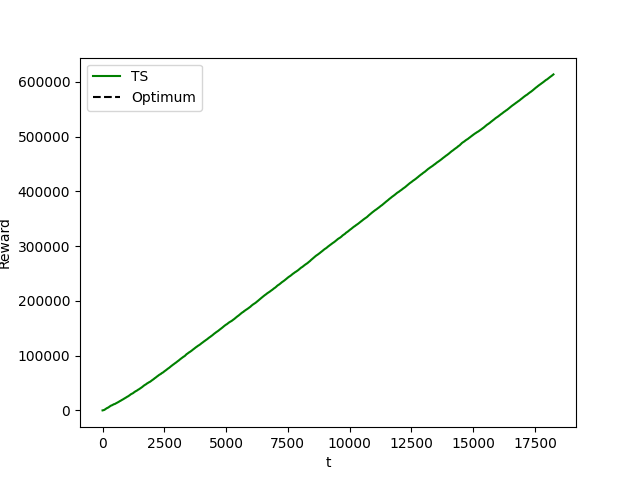
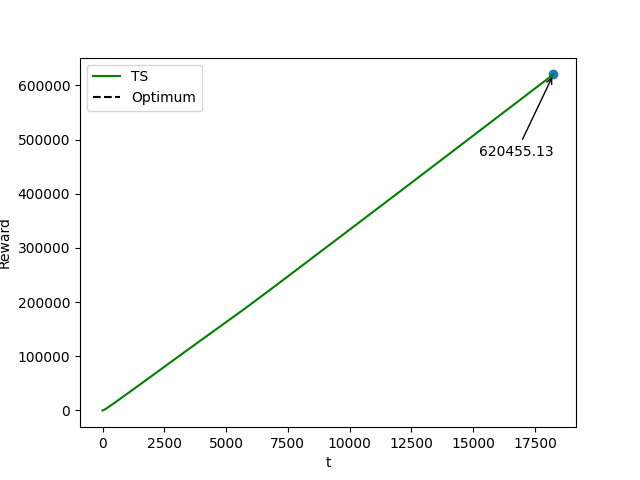
Fixed problems on assignments 4 and 5

diff --git a/src/assignment_5/ts_learner_contexts.py b/src/assignment_5/ts_learner_contexts.py
@@ -9,12 +9,13 @@ class TSLearnerContext(Learner):
 
     # n_arms is the number of arms, probabilities is an array of probabilities related to the probability of each single
     # class. User class is an array of indexes each one for each class
-    def __init__(self, n_arms, probabilities, user_class, rewards_per_arm=None, collected_rewards=None,
+    def __init__(self, n_arms, probabilities, user_class, prices, rewards_per_arm=None, collected_rewards=None,
                  beta_parameters=None):
         super().__init__(n_arms)
         self.__probabilities = probabilities
         self.__n_arms = n_arms
         self.__n_classes = len(user_class)
+        self.__prices = prices
         if all(x is None for x in (rewards_per_arm, collected_rewards, beta_parameters, collected_rewards)):
             self.__rewards_per_arm = [[[] for arm in range(0, n_arms)] for cls in range(0, self.__n_classes)]
             self.__collected_rewards = [[] for cls in range(0, self.__n_classes)]
@@ -31,8 +32,9 @@ class TSLearnerContext(Learner):
     def pull_arm(self):
         scores = np.zeros((self.__n_classes, self.__n_arms))
         for cls in range(0, self.__n_classes):
-            scores[cls] = (np.random.beta(self.__beta_parameters[cls][:, 0], self.__beta_parameters[cls][:, 1]) *
-                           self.__probabilities[cls])
+            scores[cls] = np.multiply(
+                np.random.beta(self.__beta_parameters[cls][:, 0], self.__beta_parameters[cls][:, 1]) *
+                self.__probabilities[cls], self.__prices)
         return np.argmax(scores.sum(axis=0))
 
     # This finds the optimal arm in the case in which we are not considering not all the class as part of a context
@@ -44,9 +46,9 @@ class TSLearnerContext(Learner):
     def get_best_arm_sub_context(self, classes):
         scores = np.zeros((len(classes), self.__n_arms))
         for cls in range(0, len(classes)):
-            scores[cls] = (np.random.beta(self.__beta_parameters[classes[cls]][:, 0],
-                                          self.__beta_parameters[classes[cls]][:, 1]) *
-                           self.__probabilities[classes[cls]])
+            scores[cls] = np.multiply(
+                np.random.beta(self.__beta_parameters[classes[cls]][:, 0], self.__beta_parameters[classes[cls]][:, 1]) *
+                self.__probabilities[classes[cls]], self.__prices)
         index = np.argmax(scores.sum(axis=0))
         return index
 
@@ -56,8 +58,11 @@ class TSLearnerContext(Learner):
         self.t += 1
         self.__update_observations(pulled_arm, reward)
         for cls in range(0, self.__n_classes):
-            self.__beta_parameters[cls][pulled_arm, 0] = self.__beta_parameters[cls][pulled_arm, 0] + reward[cls]
-            self.__beta_parameters[cls][pulled_arm, 1] = self.__beta_parameters[cls][pulled_arm, 1] + 1.0 - reward[cls]
+            value = 0
+            if reward[cls] > 0:
+                value = 1
+            self.__beta_parameters[cls][pulled_arm, 0] = self.__beta_parameters[cls][pulled_arm, 0] + value
+            self.__beta_parameters[cls][pulled_arm, 1] = self.__beta_parameters[cls][pulled_arm, 1] + 1.0 - value
 
     # This method allow to split the learner in two different learners each one for a different context. The learners
     # are given in array form. First classes is an array of classes which compose the first new context and
@@ -73,9 +78,11 @@ class TSLearnerContext(Learner):
         collected_rewards2 = [self.__collected_rewards[i] for i in second_classes]
         beta_parameters1 = [self.__beta_parameters[i] for i in first_classes]
         beta_parameters2 = [self.__beta_parameters[i] for i in second_classes]
-        return [self.__init__(self.__n_arms, probabilities1, user_class1, rewards_per_arm1, collected_rewards1,
+        return [self.__init__(self.__n_arms, probabilities1, user_class1, self.__prices, rewards_per_arm1,
+                              collected_rewards1,
                               beta_parameters1),
-                self.__init__(self.__n_arms, probabilities2, user_class2, rewards_per_arm2, collected_rewards2,
+                self.__init__(self.__n_arms, probabilities2, user_class2, self.__prices, rewards_per_arm2,
+                              collected_rewards2,
                               beta_parameters2)]
 
     # It update the observation like in the basic case but it does so for each class which make up the context contained

diff --git a/src/assignment_5/assignment_5.py b/src/assignment_5/assignment_5.py
@@ -12,9 +12,9 @@ from scipy import interpolate
 from src.utils.constants import img_path
 
 T = 18250
-n_experiment = 20
+n_experiment = 50
 min_price = 0.0
-max_price = 1.0
+max_price = 100.0
 
 user_class = [0, 1, 2]
 user_class_probabilities = [2 / 10, 2 / 5, 2 / 5]
@@ -23,13 +23,13 @@ readFile = '../data/pricing.csv'
 
 # Read environment data from csv file
 data = pd.read_csv(readFile)
-n_arms = len(data.columns)
+n_arms = int(np.ceil(np.power(np.log2(T) * T, 1 / 4)))
 
-x_values = [np.linspace(min_price, max_price, n_arms) for i in range(0, len(user_class))]
 y_values = []
 # The values of the y for each function
 for i in range(0, len(data.index)):
     y_values.append(np.array(data.iloc[i]))
+x_values = [np.linspace(min_price, max_price, len(y_values[u])) for u in user_class]
 
 prices = np.linspace(min_price, max_price, n_arms)
 
@@ -38,7 +38,7 @@ demand_functions = [interpolate.interp1d(x_values[i], y_values[i]) for i in user
 # Create a reward curve for each class
 rewards = [rewards(prices, demand_functions[i], i + 1) for i in range(0, 3)]
 # Create an environment for each class
-environment = [PricingEnv(n_arms=n_arms, conversion_rates=rewards[cls]) for cls in range(0, 3)]
+environment = [PricingEnv(n_arms=n_arms, conversion_rates=demand_functions[cls](prices)) for cls in user_class]
 
 ts_rewards_per_experiment = []
 # opt_per_experiment = []
@@ -46,7 +46,7 @@ ts_rewards_per_experiment = []
 
 for e in tqdm(range(0, n_experiment), desc="Experiment processed", unit="exp"):
     context_generator = ContextsGenerator(user_class=user_class, user_class_probabilities=user_class_probabilities,
-                                          environment=environment, n_arms=n_arms)
+                                          environment=environment, n_arms=n_arms, prices=prices)
     for t in range(0, T):
         # Every 7 days try the new context generation
         if (t + 1) % 350 == 0:
@@ -62,34 +62,37 @@ for e in tqdm(range(0, n_experiment), desc="Experiment processed", unit="exp"):
 
 # TODO Calcolare il regret tramite opt e ts_rewards_per_experiment
 opt = compute_optimum(user_class, user_class_probabilities, rewards)
-print("opt: ", opt, "\n")
-ts_instantaneous_regret = opt - np.mean(
-    ts_rewards_per_experiment, axis=0)
+ts_instantaneous_regret = opt - ts_rewards_per_experiment
 # plot the results
 print("Opt: ")
 np.set_printoptions(precision=3)
 print(compute_optimum(user_class, user_class_probabilities, rewards))
 print("Rewards")
 np.set_printoptions(precision=3)
-print(np.mean(ts_rewards_per_experiment, axis=0) * 100)
+# print(np.mean(ts_rewards_per_experiment, axis=0) * 100)
 print("Regret")
 np.set_printoptions(precision=3)
-print(ts_instantaneous_regret)
+print(np.mean(ts_instantaneous_regret, axis=0))
 plt.figure(0)
-plt.ylabel("Reward")
+plt.ylabel("Cumulative Reward")
 plt.xlabel("t")
-print(np.cumsum(np.mean(ts_rewards_per_experiment, axis=0)))
-plt.plot(np.cumsum(np.mean(ts_rewards_per_experiment, axis=0)), 'g')
+ts_total_rew = np.cumsum(np.mean(ts_rewards_per_experiment, axis=0))
+plt.plot(ts_total_rew, 'g')
 plt.plot(opt, '--k')
-plt.legend(["TS", "Optimum"])
+plt.scatter(len(ts_total_rew), round(np.max(ts_total_rew), 2))
+plt.annotate(round(np.max(ts_total_rew), 2), (len(ts_total_rew), round(np.max(ts_total_rew), 2)),
+             arrowprops=dict(arrowstyle="->",
+                             connectionstyle="arc3"),
+             xytext=(len(ts_total_rew) - 3000, np.max(ts_total_rew) - 150000))
+plt.legend(["TS"])
 img_name = "assignment_5_reward.png"
 plt.savefig(os.path.join(img_path, img_name))
 plt.show()
 
 plt.figure(1)
-plt.ylabel("Regret")
+plt.ylabel("Cumulative Regret")
 plt.xlabel("t")
-plt.plot(np.cumsum(ts_instantaneous_regret), 'g')
+plt.plot(np.cumsum(np.mean(np.array(opt) - ts_rewards_per_experiment, axis=0)), 'g')
 plt.legend(["TS"])
 img_name = "assignment_5_cum_regret.png"
 plt.savefig(os.path.join(img_path, img_name))

diff --git a/src/assignment_5/context_container.py b/src/assignment_5/context_container.py
@@ -14,11 +14,12 @@ class ContextContainer:
     # the context represented in this class is composed. It takes  the probabilities of each class which represents
     # the probabilities of a user belonging to a specific class. It takes a list of environments which are the ones
     # of the single classes. Finally it takes the number of arms
-    def __init__(self, user_class, context_probabilities, environment, n_arms, ts_learner=None):
+    def __init__(self, user_class, context_probabilities, environment, n_arms, prices, ts_learner=None):
         self.__context = user_class
         self.__probabilities = context_probabilities
+        self.__prices = prices
         if ts_learner is None:
-            self.__ts_learner_context = TSLearnerContext(n_arms, self.__probabilities, self.__context)
+            self.__ts_learner_context = TSLearnerContext(n_arms, self.__probabilities, self.__context, self.__prices)
         else:
             self.__ts_learner_context = ts_learner
         self.__environment = environment
@@ -34,9 +35,11 @@ class ContextContainer:
         total_reward = 0
         rewards_this_round = []
         for cls in range(0, len(self.__context)):
-            reward_of_class = self.__environment[cls].round(self.__context_optimal_arm) * self.__probabilities[cls]
+            reward_of_class = self.__environment[cls].round(self.__context_optimal_arm) * self.__prices[
+                self.__context_optimal_arm] * self.__probabilities[cls]
             rewards_this_round.append(reward_of_class / self.__probabilities[cls])
             self.__reward_per_arm[cls][self.__context_optimal_arm].append(reward_of_class / self.__probabilities[cls])
+            # print(self.__reward_per_arm[cls][self.__context_optimal_arm])
             total_reward += reward_of_class
         self.__ts_learner_context.update(self.__context_optimal_arm, rewards_this_round)
         return total_reward
@@ -49,11 +52,11 @@ class ContextContainer:
         if len(self.__context) == 1:
             raise
 
-        # If we have no enough rewards (data in this case) for some arm in some class, we can't compute the hoeffding bound
-        for i in range(0, self.__n_arms):
-            for cls in self.__context:
-                if len(self.__reward_per_arm[cls][i]) < 4:
-                    raise
+        # # If we have no enough rewards (data in this case) for some arm in some class, we can't compute the hoeffding bound
+        # for i in range(0, self.__n_arms):
+        #     for cls in self.__context:
+        #         if len(self.__reward_per_arm[cls][i]) < 1:
+        #             raise
 
         current_context_bound = self.__compute_hoeffding_bounds(self.__context, self.__context_optimal_arm)
         possible_splitting = []
@@ -77,9 +80,10 @@ class ContextContainer:
             environment2 = [self.__environment[i] for i in userclass2]
             # print("splitting1:", userclass1, "splitting 2:", userclass2, "\n")
             print("\nsplit")
-            return [ContextContainer(userclass1, probabilities1, environment1, self.__n_arms,
+            return [ContextContainer(userclass1, probabilities1, environment1, self.__n_arms, self.__prices,
                                      new_contexts_learners[0]), ContextContainer(userclass2, probabilities2,
                                                                                  environment2, self.__n_arms,
+                                                                                 self.__prices,
                                                                                  new_contexts_learners[1])]
         else:
             raise
@@ -98,5 +102,3 @@ class ContextContainer:
 
     def print_context(self, context_id):
         print("Context ", context_id, ": ", self.__context)
-
-

diff --git a/src/assignment_4/assignment_4.py b/src/assignment_4/assignment_4.py
@@ -12,9 +12,9 @@ from src.assignment_4.ts_learner import TSLearner
 from src.assignment_4.pricing_env import PricingEnv
 from src.utils.constants import subcampaign_names, img_path
 
-T = 150
+T = 18250
 
-n_experiments = 10
+n_experiments = 50
 
 min_price = 0.0
 max_price = 100.0
@@ -33,7 +33,7 @@ for i in range(0, len(data.index)):
     y_values.append(np.array(data.iloc[i]))
 x_values = [np.linspace(min_price, max_price, len(y_values[s])) for s in subcampaigns]
 
-probabilities_vector = [1 / 4, 1 / 2, 1 / 4]
+probabilities_vector = [2 / 10, 2 / 5, 2 / 5]
 conversion_prices = np.linspace(min_price, max_price, n_arms)
 all_rewards_vector = []
 
@@ -102,7 +102,6 @@ for e in tqdm(range(0, n_experiments), desc="Experiment processed", unit="exp"):
         np.average(a=ts_learner.collected_rewards, axis=0, weights=probabilities_vector))
     gr_rewards_per_experiment.append(
         np.average(a=gr_learner.collected_rewards, axis=0, weights=probabilities_vector))
-    print(ts_rewards_per_experiment)
 
 plt.figure(0)
 plt.ylabel("Cumulative Reward")
@@ -112,6 +111,11 @@ ts_total_rew = np.cumsum(np.mean(ts_rewards_per_experiment, axis=0))
 gr_total_rew = np.cumsum(np.mean(gr_rewards_per_experiment, axis=0))
 print(ts_total_rew)
 plt.plot(ts_total_rew, 'g')
+plt.scatter(len(ts_total_rew), round(np.max(ts_total_rew), 2))
+plt.annotate(round(np.max(ts_total_rew), 2), (len(ts_total_rew), round(np.max(ts_total_rew), 2)),
+             arrowprops=dict(arrowstyle="->",
+                             connectionstyle="arc3"),
+             xytext=(len(ts_total_rew) - 5000, np.max(ts_total_rew)))
 plt.plot(gr_total_rew, 'r')
 plt.legend(["TS", "Greedy"])
 
@@ -124,6 +128,7 @@ plt.ylabel("Cumulative Regret")
 plt.xlabel("t")
 ts_total_reg = np.cumsum(np.mean(np.array(opt) - ts_rewards_per_experiment, axis=0))
 gr_total_reg = np.cumsum(np.mean(np.array(opt) - gr_rewards_per_experiment, axis=0))
+print(np.mean(np.array(opt) - ts_rewards_per_experiment, axis=0))
 print(ts_total_reg)
 plt.plot(ts_total_reg, 'g')
 plt.plot(gr_total_reg, 'r')

diff --git a/src/assignment_5/contexts_generator.py b/src/assignment_5/contexts_generator.py
@@ -3,8 +3,8 @@ from src.assignment_5.context_container import ContextContainer
 
 
 class ContextsGenerator:
-    def __init__(self, user_class, user_class_probabilities, environment, n_arms):
-        self.contexts = [ContextContainer(user_class, user_class_probabilities, environment, n_arms)]
+    def __init__(self, user_class, user_class_probabilities, environment, n_arms, prices):
+        self.contexts = [ContextContainer(user_class, user_class_probabilities, environment, n_arms, prices)]
         self.rewards = []
         self.opt = 0
 

diff --git a/src/utils/constants.py b/src/utils/constants.py
@@ -1,6 +1,6 @@
 import os
 import pathlib
 
-subcampaign_names = ["(Under 40, Novice)", "(Under 40, Experienced)", "(Over 40, Experienced)"]
+subcampaign_names = ["(Over 40, Experienced)", "(Under 40, Novice)", "(Under 40, Experienced)"]
 abrupt_phases_names = ["[January-April]", "[May-August]", "[September-December]"]
 img_path = os.path.join(pathlib.Path(os.getcwd()).parents[1], "slides", "images")
